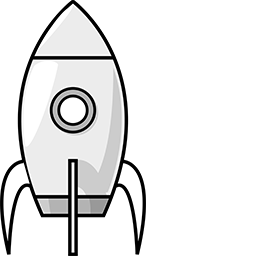
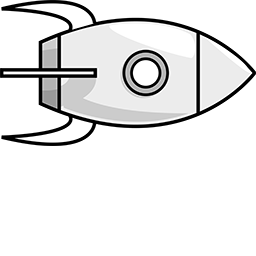
火箭运动加入物理效果

Changed region(s): [[0.0, 0.0, 1.0, 1.0], [0.9375, 0.3125, 0.9688, 0.3438]]

diff --git a/app/src/main/java/com/xinlan/rocketship/gameobj/Rocket.java b/app/src/main/java/com/xinlan/rocketship/gameobj/Rocket.java
@@ -4,6 +4,7 @@ import com.badlogic.gdx.Gdx;
 import com.badlogic.gdx.graphics.Texture;
 import com.badlogic.gdx.graphics.g2d.SpriteBatch;
 import com.badlogic.gdx.graphics.g2d.TextureRegion;
+import com.badlogic.gdx.math.Vector2;
 import com.badlogic.gdx.scenes.scene2d.ui.Touchpad;
 import com.xinlan.rocketship.screen.GameScreen;
 
@@ -13,40 +14,64 @@ import com.xinlan.rocketship.screen.GameScreen;
 public class Rocket extends BaseObject {
     private GameScreen context;
     private TextureRegion rocketTexture;
-
-    private float maxSpeed = 4f;// 最大速度
-    protected float mass;//质量
+    private Vector2 force;//计算所受合力
+    private float maxSpeed = 400f;// 最大速度
 
     public Rocket(GameScreen screen) {
         this.context = screen;
+
+        this.mass = 1;
         //145
         Texture originTexture = new Texture(Gdx.files.internal("rocket.png"));
-        rocketTexture = new TextureRegion(originTexture, 0, 0, 145, 256);
+        rocketTexture = new TextureRegion(originTexture, 0, 0, 256, 145);
+
         this.position.set(GameScreen.WORLD_WIDTH / 2, GameScreen.WORLD_HEIGHT / 2);
-        this.bound.set(this.position.x, this.position.y, 30, 50);
+        this.bound.set(this.position.x, this.position.y, 50, 30);
     }
 
     public void update(float delta) {
+        force = calculateForce();
+        Vector2 accelerataion = force.scl(1 / this.mass);//牛顿第二运动定律 计算加速度
+        this.velocity.add(accelerataion.scl(delta));//根据加速度 计算当前速度 v=v0+a*t;
+        this.velocity.limit(maxSpeed);//限制其最大速度
+        this.position.add(this.velocity.cpy().scl(delta));
 
-
-        Touchpad touchPad = context.mController.touchpad;
-        this.position.add(touchPad.getKnobPercentX() * maxSpeed, touchPad.getKnobPercentY() * maxSpeed);
+        heading = this.velocity.cpy().nor();
+        siding = this.heading;
 
         //边界条件判断
         if (position.x < this.bound.width / 2) {
             position.x = this.bound.width / 2;
+            velocity.x = 0;
         } else if (position.x > GameScreen.WORLD_WIDTH - this.bound.width / 2) {
             position.x = GameScreen.WORLD_WIDTH - this.bound.width / 2;
+            velocity.x = 0;
         }//end if
         if (position.y < this.bound.height / 2) {
             position.y = this.bound.height / 2;
+            velocity.y = 0;
         } else if (position.y > GameScreen.WORLD_HEIGHT - this.bound.height / 2) {
             position.y = GameScreen.WORLD_HEIGHT - this.bound.height / 2;
+            velocity.y = 0;
         }//end if
+
+    }
+
+    /**
+     * 计算物体所受合力
+     *
+     * @return
+     */
+    private Vector2 calculateForce() {
+        Vector2 retForce = new Vector2(0, 0);
+        Touchpad touchPad = context.mController.touchpad;
+        float maxForce = 300f;
+        retForce.add(touchPad.getKnobPercentX() * maxForce, touchPad.getKnobPercentY() * maxForce);
+        return retForce;
     }
 
     public void render(SpriteBatch batch) {
         batch.draw(rocketTexture, this.position.x - this.bound.width / 2,
-                this.position.y - this.bound.height / 2, this.bound.width, this.bound.height);
+                this.position.y - this.bound.height / 2, bound.width / 2, bound.height / 2, bound.width, bound.height, 1, 1, heading.angle());
     }
 }//end class

diff --git a/app/src/main/java/com/xinlan/rocketship/gameobj/BaseObject.java b/app/src/main/java/com/xinlan/rocketship/gameobj/BaseObject.java
@@ -5,7 +5,7 @@ import com.badlogic.gdx.math.Vector2;
 
 /**
  * Created by Administrator
- *
+ * <p/>
  * on 2015/6/6.
  */
 public abstract class BaseObject {
@@ -13,5 +13,7 @@ public abstract class BaseObject {
     public Rectangle bound = new Rectangle();
     public Vector2 heading = new Vector2();
     public Vector2 siding = new Vector2();
-    public float headAngle=0;//朝向角度
+    public Vector2 velocity = new Vector2();//当前速度
+    public float headAngle = 0;//朝向角度
+    public float mass = 1;//质量
 }//end class

diff --git a/app/src/main/java/com/xinlan/rocketship/gameobj/Universal.java b/app/src/main/java/com/xinlan/rocketship/gameobj/Universal.java
@@ -21,7 +21,7 @@ public class Universal {
     }
 
     public void initStars() {
-        final int step = 70;
+        final int step = 50;
         for (int i = 0; i < GameScreen.WORLD_HEIGHT; i += step) {
             for (int j = 0; j < GameScreen.WORLD_WIDTH; j += step) {
                 stars.add(new Star(MathUtils.random(j, j + step), MathUtils.random(i, i + step)));
